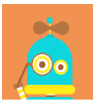
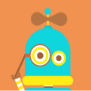
总览页面样式修改，机器人头像样式修改

diff --git a/app/know_index/myApplication/applicationDevelopment/custServScenaOverview.html b/app/know_index/myApplication/applicationDevelopment/custServScenaOverview.html
@@ -6,7 +6,10 @@
                 <!--<img class="hd-img" src="../../../images/images/poto.png"/>-->
                 <!--{{vm.imgUrl}}  +++    {{vm.robotHead}}-->
                 <!--<img class="hd-img" ng-src="{{vm.imgUrl}}{{vm.robotHead}}"/>-->
-                <img class="hd-img" ng-src="/img/{{vm.robotHead}}"/>
+                <div style="width:110px;height:110px;overflow: hidden;border-radius:50%;margin:0 auto;border:3px solid #fff;">
+                    <img class="hd-img" ng-src="../../images/touxiang1.png"/>
+                    <!--<img class="hd-img" ng-src="/img/{{vm.robotHead}}"/>-->
+                </div>
                 <span class="hd-name ellipsis">{{vm.applicationName}}</span>
             </div>
             <div class="aside-nav aside-navn">

diff --git a/app/know_index/myApplication/applicationDevelopment/markServScenaOverview.html b/app/know_index/myApplication/applicationDevelopment/markServScenaOverview.html
@@ -6,7 +6,10 @@
             <div class="aside-hd tac">
                 <!--<img class="hd-img" src="../../../images/images/poto.png"/>-->
                 <!--<img class="hd-img" ng-src="{{vm.imgUrl}}{{vm.robotHead}}"/>-->
-                <img class="hd-img" ng-src="/img/{{vm.robotHead}}"/>
+                <div style="width:110px;height:110px;overflow: hidden;border-radius:50%;margin:0 auto;border:3px solid #fff;">
+                    <!--<img class="hd-img" ng-src="../../images/touxiang1.png"/>-->
+                    <img class="hd-img" ng-src="/img/{{vm.robotHead}}"/>
+                </div>
                 <span class="hd-name ellipsis">{{vm.applicationName}}</span>
             </div>
             <div class="aside-nav aside-navn">

diff --git a/app/know_index/myApplication/setting.html b/app/know_index/myApplication/setting.html
@@ -4,7 +4,10 @@
         <div class="l-aside fl">
             <div class="aside-hd tac">
                 <!--<img class="hd-img" ng-src="{{vm.imgUrl}}{{vm.robotHead}}"/>-->
-                <img class="hd-img" ng-src="/img/{{vm.robotHead}}"/>
+                <div style="width:110px;height:110px;overflow: hidden;border-radius:50%;margin:0 auto;border:3px solid #fff;">
+                    <!--<img class="hd-img" src="../../images/touxiang4.png"/>-->
+                    <img class="hd-img" ng-src="/img/{{vm.robotHead}}"/>
+                </div>
                 <!--<span class="hd-name ellipsis">{{vm.robotName}}</span>-->
                 <span class="hd-name ellipsis">{{applicationName}}</span>
             </div>

diff --git a/app/know_index/myApplication/applicationDevelopment/custKnowledgePreview.html b/app/know_index/myApplication/applicationDevelopment/custKnowledgePreview.html
@@ -86,7 +86,7 @@
                 </div>
             </li>
             <!-- 概念知识 位置-->
-            <li class="borderN"  ng-if="vm.knowledgeType==101" ng-repeat="item in vm.listData.extensionQuestions" >
+            <li class="borderN"  ng-if="vm.knowledgeType==101"  >
                 <p ng-repeat="item in vm.listData.extensionQuestions track by $index">
                     <span ng-class="$index!=0?'milesVh':''">概念扩展：</span>
                     <span style="width: auto;background: #f1f1f1;" ng-repeat="val in item.extensionQuestionTagList track by $index">

diff --git a/app/css/home/robotSetup.css b/app/css/home/robotSetup.css
@@ -1,5 +1,6 @@
 .aside-hd{padding: 30px 0;}
-.aside-hd .hd-img{ display: block; margin: 0 auto; width: 110px; height: 110px; border-radius: 50%; border: 3px solid #fff;}
+/*.aside-hd .hd-img{ display: block; margin: 0 auto; width: 110px; height: 110px; border-radius: 50%; border: 3px solid #fff;}*/
+.aside-hd .hd-img{ width: 100%;height:100%;}
 .aside-hd .hd-name{font-size: 16px; color: #333; line-height: 35px; padding: 10px 15px 0;}
 
 .aside-nav{ border-top: 1px solid #dadada; border-bottom: 1px solid #dadada;}
